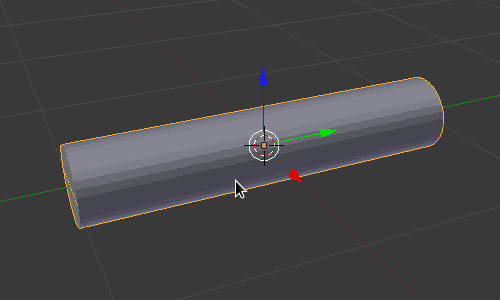
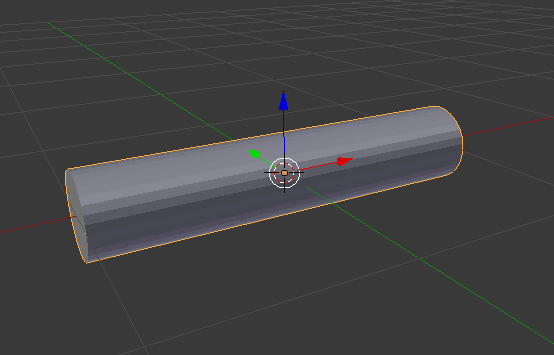
Updating the Ficks Law tutorial for recent CellBlender
This version has been rewritten to cover the actual simulation first.
The measurement components are still there from the older version, but
they need to be updated.

This version is not ready for publishing on mcell.org at this time.

diff --git a/ficks_laws.rst b/ficks_laws.rst
@@ -4,11 +4,6 @@
 Fick's 1st and 2nd Laws
 *********************************************
 
-.. warning::
-
-   This tutorial has not yet been updated for CellBlender 1.0. Therefore,
-   some things might not work exactly as described.
-
 Our goal in this tutorial is to evaluate Fick’s 1st and 2nd Laws using 
 simulations of discrete diffusing particles. To do so, we design the 
 simulation geometry and input conditions so that we obtain a concentration 
@@ -21,26 +16,304 @@ Laws, in particular Fick’s 2nd Law:
 where D is the diffusion coefficient used for the particles in the simulation.
 We begin by designing the 3-D geometry as illustrated below:
 
-Using the above geometry, we wish to introduce diffusing particles such that:
+Using a cylindrical geometry, we wish to introduce diffusing particles such that:
 
 #. There will be a concentration gradient along the x-axis only.
 #. After some elapsed time, the system will reach a steady state with an 
    unchanging concentration gradient along the x-axis (e.g., a 10-fold 
    difference along the length of the cylinder).
 
-How can we do this with MCell? Hint: Consider the concentration clamp
+How can we do this with MCell and CellBlender? Hint: Consider the concentration clamp
 command introduced previously. 
 
-But first let's create the mesh for the system.
+We will conduct this tutorial in 2 sections. The first section will build
+and run the entire simulation. It turns out this will be the easy part.
+
+The second part of the tutorial will involve building the "instrumentation"
+required to measure the concentration along the cylinder. This will be much
+more tedious.
+
+
+.. warning::
+
+
+   Note that the second portion of this tutorial is not completed yet.
+
 
 .. _fick_create_mesh: 
 
-Creating the Mesh
+Create the Cylinder Geometry
 ---------------------------------------------
+
+Begin by starting Blender with CellBlender enabled.
+
+Delete everything in your scene by first selecting everything with the **a** ("all")
+key until all objects - Cube, lamp, camera - are highlighted (orange outline).
+Then hit the **x** key and click **Delete** to delete the default Cube, lamp, 
+camera, and anything else in your scene.
+
+Next, create a cylinder by hitting **Shift-a**, and selecting
+**Mesh>Cylinder**. Hit **s**, **Shift-z**, **0.2**, and **Enter** to confirm.
+Hit **r**, **y**, **90**, and **Enter** to rotate it 90 degrees around the
+y-axis (aligns cylinder along the x axis). This will be the main cylinder through
+which the molecules diffuse. You may want to rotate and zoom to get a better
+view. It should looks something like this:
+
+.. image:: ./images/ficks_big_cylinder.png
+
+Be sure that the red arrow (x axis) is facing generally to the right so our
+definitions of "left" and "right" will be consistent with your view.
+
+In the CellBlender panel, open the "Model Objects" subpanel. With your new
+cylinder selected, click the "**+**" button to add the Cylinder to the list
+of objects in your CellBlender model.
+
+.. image:: ./images/CellBlender_model_objects_panel_cyl.png
+.. image:: ./images/CellBlender_model_objects_panel_cyl_added.png
+
+The name "Cylinder" should appear in the box with a green check mark beside it.
+Below that box is another box titled "Cylinder Display Options". Click the
+small triangle which expands the features in that box. You should see a drop down
+control with the label "Maximum Draw Type" and it is likely showing "Solid" or
+"Textured". Click on the control and change it to "Wire" so you can see through the Cylinder.
+
+.. image:: ./images/Ficks_cylinder_wire.png
+
+Then click the triangle again to close the "Cylinder Display Options" box.
+
+Create two surface regions (below the Cylinder Display Options box) by clicking 
+the **+** button twice and name them **left_end** and **right_end**. 
+See :ref:`define_region` if you need help with this.
+
+.. image:: ./images/CellBlender_model_objects_panel_add_reg.png
+.. image:: ./images/CellBlender_model_objects_panel_regions_added.png
+
+Then, enter **Edit Mode** by hitting **Tab**.
+
+In order to select all vertices on both sides of an object (what we want),
+you should disable the "Limit selection to visible" button by clicking
+it into the "lighter gray" state as shown here:
+
+.. image:: ./images/Ficks_selection_limit_unchecked.png
+
+Hit **a** once or twice (or more) until everything is unselected (black).
+
+Hit **b** to start the Border Select mode.
+
+Select the left end of the cylinder by clicking with the left mouse button and 
+dragging around it.
+
+.. image:: ./images/ficks_border_select.png
+
+.. image:: ./images/ficks_border_select2.png
+
+Go back to the Model Objects subpanel and select the "**left_end**" region that you
+created earlier. Then click the "**Assign**" button to tag those faces as the "left_end"
+of your Cylinder.
+
+Hit **a** to deselect everything in the mesh. Then repeat the process for the
+right end of your cylinder (assign the faces on the right end to the "right_end"
+region).
+
+Deselect everything with the "**a**" key and switch back to **Object Mode** by hitting **Tab**.
+
+For objective viewing, switch to the top view with either the "**7**" key on your keypad
+(not the top row number keys) or by choosing "**View**" and "**Top**" from the view menu 
+below the 3D viewport. Similarly, select orthographic mode with keypad "**5**" or by choosing
+"**View**" and "**View Persp/Ortho**" so that the words "Top Ortho" appear in the
+upper left corner of the 3D viewport.
+
+Finally, hit the "**a**" key one (or more) times until the object is unselected (black).
+This will make it easier to see our molecules as they're added. Your view should look
+about like this:
+
+.. image:: ./images/Ficks_ortho_view_cyl.png
+
+
+Define Constants for the Simulation
+---------------------------------------------
+
+Click the "**Parameters**" button to open the "Model Parameters" subpanel.
+
+Click the "**+**" button to define a new parameter. By default it will be "P1" with a value of 0.
+
+Change the name to "**iters**" and give it a value of **5000** as shown in the table below. Repeat
+this process of adding and editing to define all of the model parameters in this table (note that
+the Units and Description are optional and not needed for the simulation):
+
+
+ | *Model Parameters:*
+
+  +------------------------+-----------------+-------------+--------------------------------------+
+  | **Parameter Name**     | **Expression**  |  **Units**  | **Description**                      |
+  +========================+=================+=============+======================================+
+  | iters                  |      5000       |             |  Number of iterations to run         |
+  +------------------------+-----------------+-------------+--------------------------------------+
+  | dt                     |        1e-6     |  seconds    |  Time step for each iteration        |
+  +------------------------+-----------------+-------------+--------------------------------------+
+  | Na                     |   6.0221415e23  |             |    Avogardros Number                 |
+  +------------------------+-----------------+-------------+--------------------------------------+
+  | area                   |   1.2441e-11    |   cm^2      | Cross-sectional area of cylinder     |
+  +------------------------+-----------------+-------------+--------------------------------------+
+  | dx                     |       5e-7      |    cm       | Width of sampling volumes 20 plus 21 |
+  +------------------------+-----------------+-------------+--------------------------------------+
+  | dc                     |       5e-6      | cm^2 / sec  | Diffusion Constant                   |
+  +------------------------+-----------------+-------------+--------------------------------------+
+  | cl                     |       2e-5      |  Molar      | Concentration on left end            |
+  +------------------------+-----------------+-------------+--------------------------------------+
+
+
+Define a Molecule Species
+---------------------------------------------
+
+Click on the "**Molecules**" panel button to show the Defined Molecules subpanel.
+
+Click the "**+**" button to define a new molecule species.
+
+Change the **Name** to "**vm**" (representing a "volume molecule").
+
+Leave the **Molecule Type** as "**VolumeMolecule**".
+
+Set the **Diffusion Constant** to "**dc**" (the diffusion constant
+we defined in the parameters panel eariler).
+
+When you're finished, it should look like this:
+
+.. image:: ./images/Ficks_defined_vm.png
+
+
+Define a Clamp Concentration Surface Class
+---------------------------------------------
+
+Click on the "**Surface Classes**" panel button to show the Defined Surface Classes subpanel.
+
+Click the "**+**" button to define a new surface class.
+
+Change the **Surface Class Name** to "**clamp**".
+
+Click the "**+**" button beside the "clamp Properties" box (below the Surface Class Name)
+to define a new property for the "clamp" surface class.
+
+Set the **Molecule Name** to "**vm**".
+
+Set the **Orientation** to "**Bottom/Back**".
+
+Set the **Type** to "**Clamp Concentration**".
+
+Set the **Value** to "**cl**" (the concentration we defined in the parameters panel eariler).
+
+When you're finished, it should look like this:
+
+.. image:: ./images/Ficks_surf_clamp_vm.png
+
+
+Assign the Clamp Concentration Surface Class to the Left end of the Cylinder
+------------------------------------------------------------------------------------
+
+Click on the "**Assign Surface Classes**" panel button to show the Assigned Surface Classes subpanel.
+
+Click the "**+**" button to define a new surface class (it will show an "Undefined surface class" error).
+
+Change the **Surface Class Name** to "**clamp**".
+
+Change the **Object Name** to "**Cylinder**".
+
+Uncheck the **All Faces** checkbox.
+
+Change the **Region Name** to "**left_end**".
+
+When you're finished, it should look like this:
+
+.. image:: ./images/Ficks_left_class.png
+
+
+Define an Absorptive Surface Class
+---------------------------------------------
+
+Click on the "**Surface Classes**" panel button to show the Defined Surface Classes subpanel.
+
+Click the "**+**" button to define a new surface class.
+
+Change the **Surface Class Name** to "**absorb**".
+
+Click the "**+**" button beside the "absorb Properties" box (below the Surface Class Name)
+to define a new property for the "absorb" surface class.
+
+Set the **Molecule Name** to "**vm**".
+
+Set the **Orientation** to "**Ignore**".
+
+Set the **Type** to "**Absorptive**".
+
+When you're finished, it should look like this:
+
+.. image:: ./images/Ficks_surf_absorb_vm.png
+
+
+Assign the Absorptive Surface Class to the Right end of the Cylinder
+------------------------------------------------------------------------------------
+
+Click on the "**Assign Surface Classes**" panel button to show the Assigned Surface Classes subpanel.
+
+Click the "**+**" button to define a new surface class (it will show an "Undefined surface class" error).
+
+Change the **Surface Class Name** to "**absorb**".
+
+Change the **Object Name** to "**Cylinder**".
+
+Uncheck the **All Faces** checkbox.
+
+Change the **Region Name** to "**right_end**".
+
+.. image:: ./images/Ficks_right_class.png
+
+
+First Simulation
+---------------------------------------------
+
+
+Click on the "**Run Simulation**" panel button to show the Run Simulation subpanel.
+
+Change the **Iterations** to "**iters / 10**" ("iters" was defined as 5000, but we don't need
+to run that long while we're testing).
+
+Change the **Time Step** to "**dt**" (defined in the parameters panel earlier).
+
+This is a good time to save with "**File / Save**" in the top menu bar.
+
+Click the **Run** button to start the simulation.
+
+The simulation should run quickly (only 500 iterations), and you should see a green
+check mark beside the completed run (you may have to hover your cursor over it to
+get it to update):
+
+.. image:: ./images/Ficks_first_run.png
+
+  
+Next click the "**Reload Visualization Data**" button to load all of the molecules.
+You can click and drag in the time line window to watch the molecules diffusing
+from the left side (source) to the right side over time.
+
+.. image:: ./images/Ficks_time_line_1.png
+
+
+
+SECOND PORTION OF TUTORIAL (not finished yet)
+---------------------------------------------
+
+
 
 If you would rather skip the mesh creation part, you can simply download the
 `blend file`_ and advance to the :ref:`fick_annotate` section. Otherwise you
 should watch the video or follow along with the instructions after the video.
+
+
+.. warning::
+
+   This video was made with older versions of both Blender and CellBlender.
+   Much of the mesh manipulation is the same but the interface may look different.
+   Additionally, as noted above, the cylinder is built along the "x" axis in the
+   newer version.
 
 .. raw:: html
 
@@ -52,33 +325,7 @@ should watch the video or follow along with the instructions after the video.
 
 .. _blend file: https://www.mcell.org/tutorials/downloads/ficks_law.blend
 
-Begin by starting Blender. Hit **x** and click **Delete** to delete the default
-Cube. 
 
-.. image:: ./images/ficks_big_cylinder.png
-
-Then, create a cylinder by hitting **Shift-a**, and selecting
-**Mesh>Cylinder**. Hit **s**, **Shift-z**, **0.2**, and **Enter** to confirm.
-Hit **r**, **x**, **90**, and **Enter** to rotate it 90 degrees around the
-x-axis. This will be the main cylinder through which the molecules diffuse. You
-may want to zoom in to get a better view.
-
-.. image:: ./images/ficks_left_end_right_end.png
-
-Create two surface regions, **Left_end** and **Right_end**. See
-:ref:`define_region` if you need help with this.
-
-.. image:: ./images/ficks_border_select.png
-
-.. image:: ./images/ficks_border_select2.png
-
-Then, enter **Edit Mode** by hitting **Tab**. Hit **Ctrl-t** to triangulate the
-mesh. Hit **z** to enter wireframe mode. Next, select the left end of the
-cylinder by hitting **b**, **left click and drag** around the left end of the
-cylinder. Select **Left_end** from the list of surface regions and select
-**Assign**. Hit **a** to deselect the mesh. Now, do the same with the right end
-of the cylinder, except select and assign the **Right_end** surface region.
-Switch back to **Object Mode** by hitting **Tab**.
 
 We now need to create a series of shorter sampling cylinders inside the long
 one. To do so, hit **Shift-a** and once again select **Mesh>Cylinder**. We will
